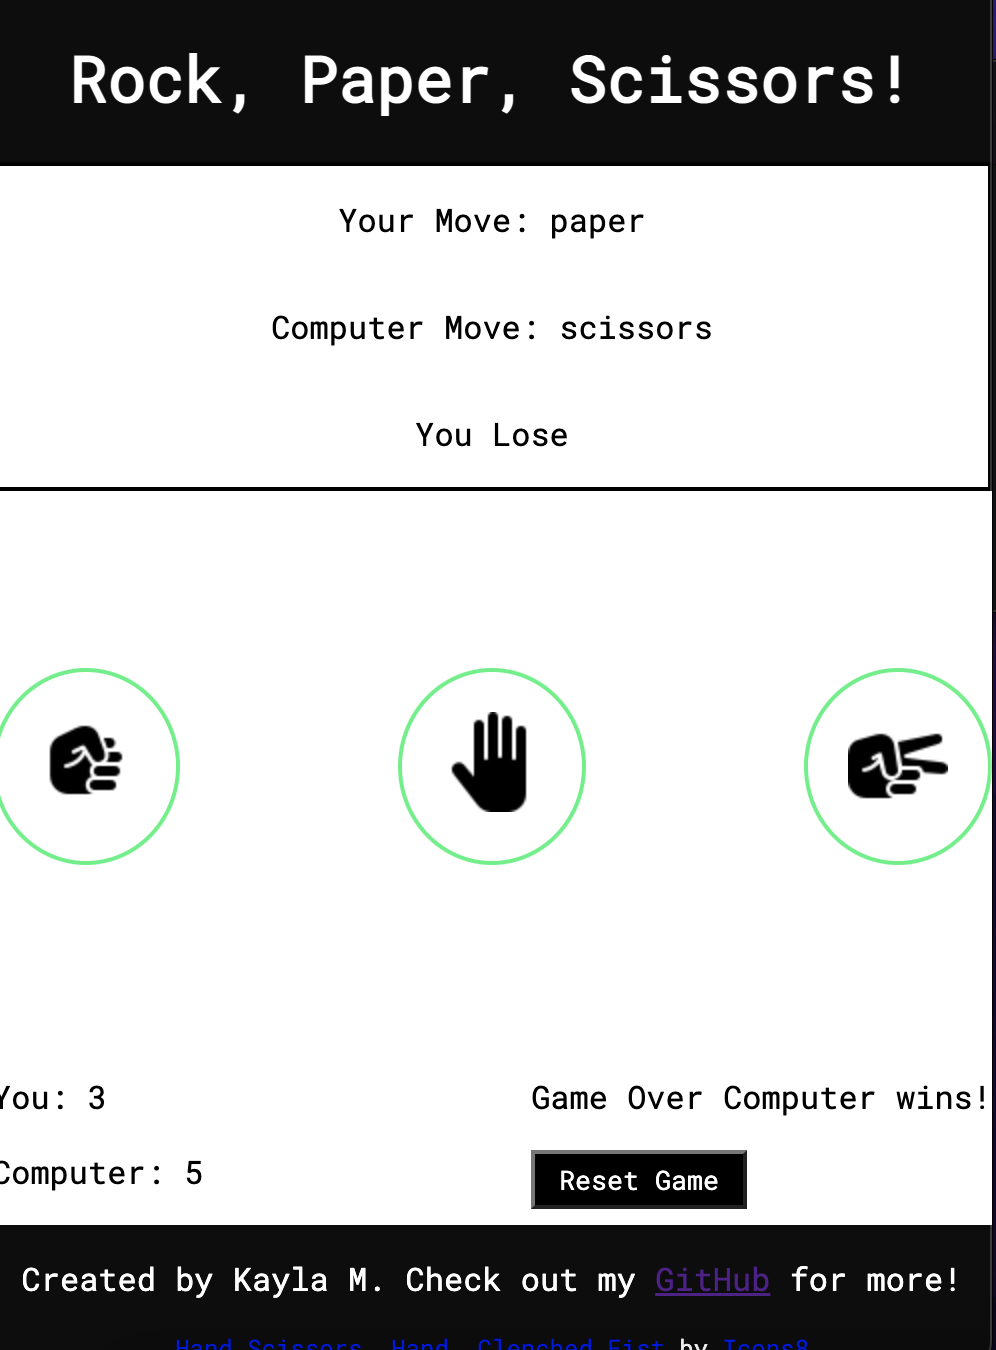
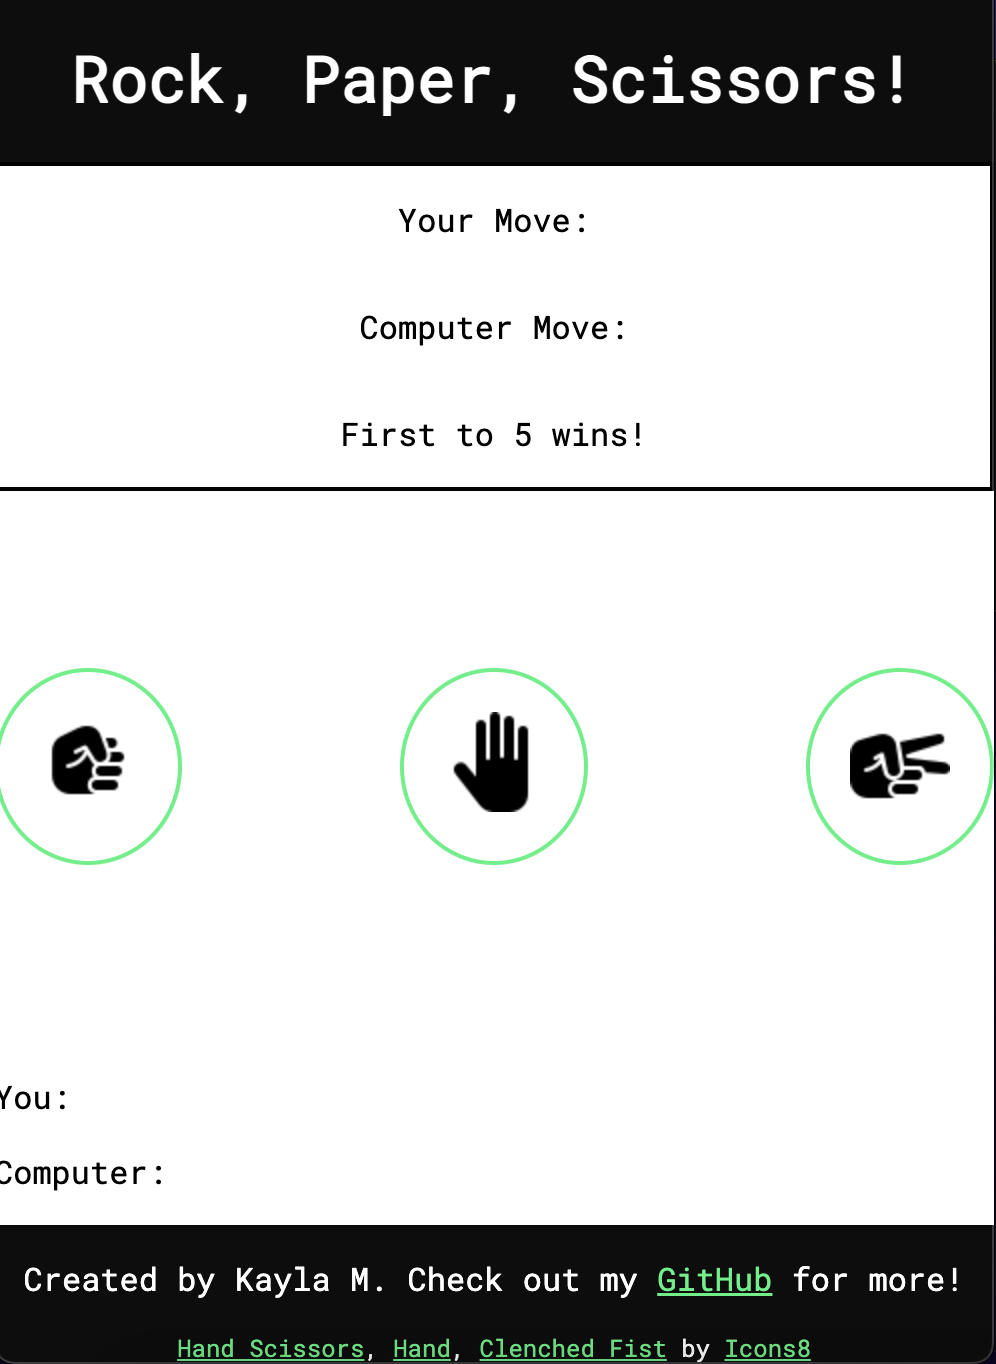
Make links green

diff --git a/index.html b/index.html
@@ -49,12 +49,12 @@
         </div>
 
         <div class="footer">
-            <p>Created by Kayla M. Check out my <a href="https://github.com/kaykaym01">GitHub</a> for more!</p>
+            <p>Created by Kayla M. Check out my <a href="https://github.com/kaykaym01" target="_blank">GitHub</a> for more!</p>
 
             <div class="credit">
-                <a target="_blank" href="https://icons8.com/icon/41456/hand-scissors">Hand Scissors</a>,
-                <a target="_blank" href="https://icons8.com/icon/10272/hand">Hand</a>,
-                <a target="_blank" href="https://icons8.com/icon/10266/clenched-fist">Clenched Fist</a>  by <a
+                <a target="_blank" href="https://icons8.com/icon/41456/hand-scissors" target="_blank">Hand Scissors</a>,
+                <a target="_blank" href="https://icons8.com/icon/10272/hand" target="_blank">Hand</a>,
+                <a target="_blank" href="https://icons8.com/icon/10266/clenched-fist" target="_blank">Clenched Fist</a>  by <a
                     target="_blank" href="https://icons8.com">Icons8</a>
             </div>
         </div>

diff --git a/css/styles.css b/css/styles.css
@@ -77,3 +77,7 @@ h1{
     font-family: 'Roboto Mono', monospace, sans-serif;
     padding: 4px 12px;
 }
+
+a{
+    color:#27F27F;
+}
